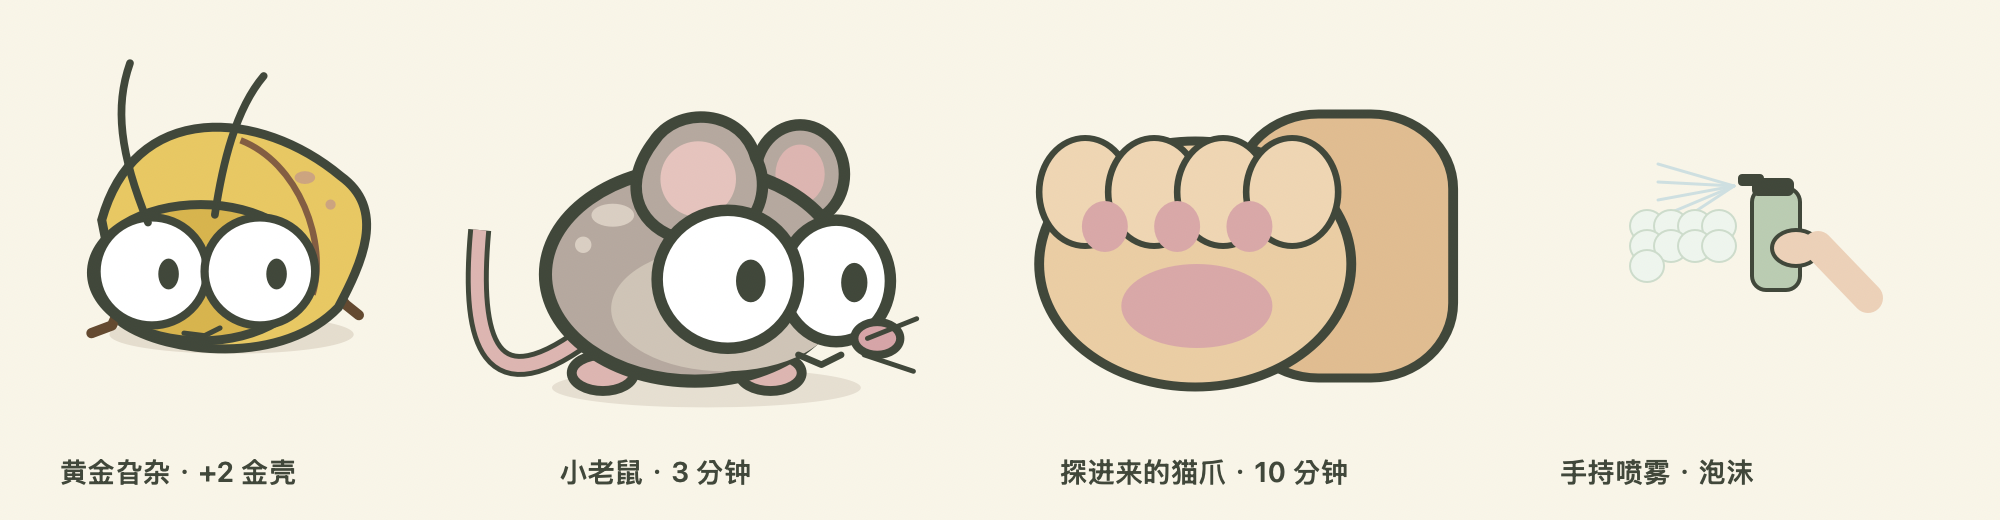
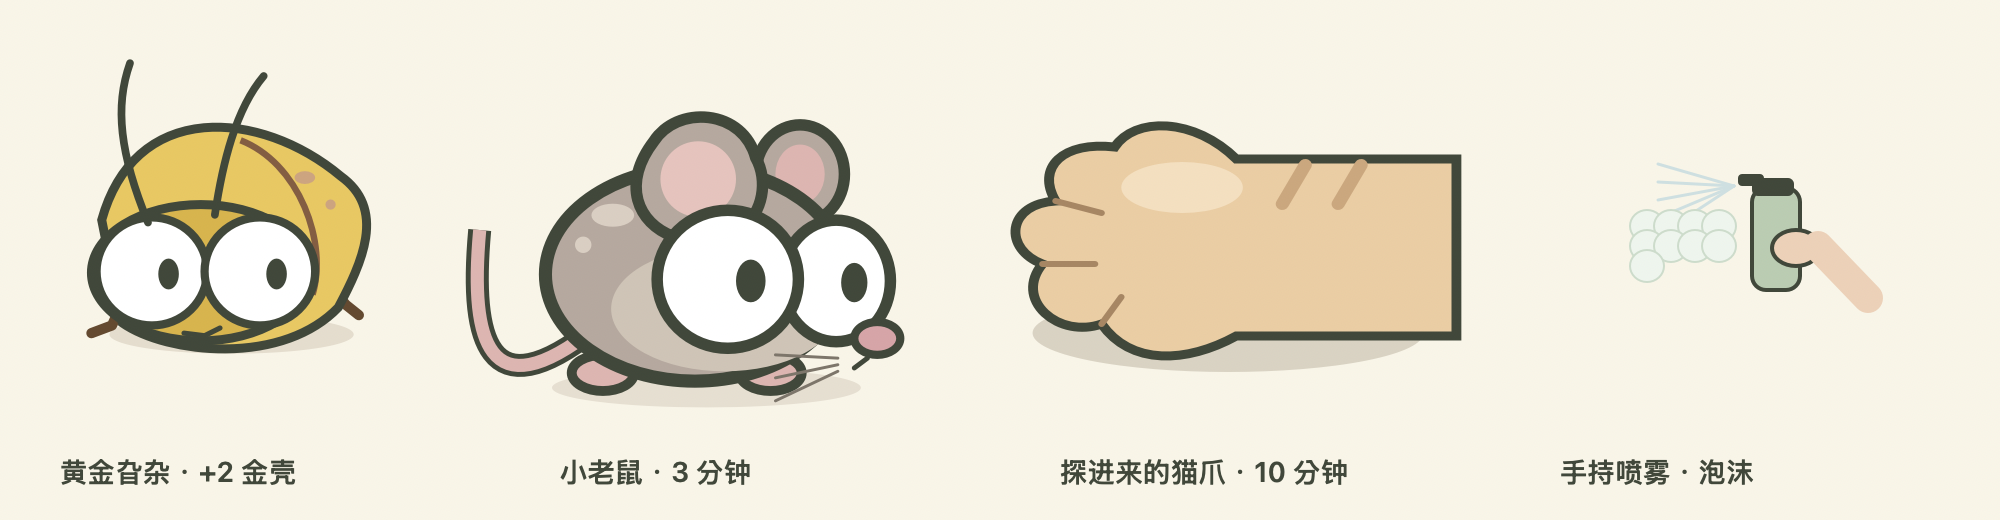
Refine mouse whiskers and animate a cat paw resting on the desktop

Changed region(s): [[0.496, 0.1846, 0.744, 0.7692], [0.372, 0.6769, 0.465, 0.7692], [0.434, 0.6154, 0.465, 0.6462]]

diff --git a/Sources/Art.swift b/Sources/Art.swift
@@ -112,11 +112,23 @@ func drawFriend(in box:NSRect,cat:Bool,phase:Double,facing:Double=1){
     let scale=AffineTransform(scaleByX:box.width/140,byY:box.height/140);(scale as NSAffineTransform).concat()
     if !cat && facing>0 {let flip=AffineTransform(translationByX:140,byY:0);(flip as NSAffineTransform).concat();let mirror=AffineTransform(scaleByX:-1,byY:1);(mirror as NSAffineTransform).concat()}
     if cat {
-        paintRect(NSRect(x:78,y:28,width:66,height:88),color(0xE0AD78),radius:25,stroke:ink,width:3)
-        oval(NSRect(x:18,y:37,width:95,height:82),color(0xEBC18D),stroke:ink,width:3)
-        for n in 0..<4 {oval(NSRect(x:18+CGFloat(n)*21,y:36,width:28,height:36),color(0xF0CB9F),stroke:ink,width:2)}
-        oval(NSRect(x:43,y:78,width:46,height:28),color(0xD99396))
-        for n in 0..<3 {oval(NSRect(x:31+CGFloat(n)*22,y:57,width:14,height:17),color(0xD99396))}
+        let contact=pawContact(phase)
+        let reach=AffineTransform(translationByX:(1-contact)*130,byY:-(1-contact)*9);(reach as NSAffineTransform).concat()
+        // Top of the paw resting on the desktop; the pads face the floor.
+        oval(NSRect(x:16,y:88,width:119,height:26),color(0x66533B,0.08+contact*0.16))
+        let paw=NSBezierPath();paw.move(to:NSPoint(x:145,y:43));paw.line(to:NSPoint(x:78,y:43))
+        paw.curve(to:NSPoint(x:41,y:39),controlPoint1:NSPoint(x:65,y:29),controlPoint2:NSPoint(x:47,y:29))
+        paw.curve(to:NSPoint(x:23,y:57),controlPoint1:NSPoint(x:25,y:37),controlPoint2:NSPoint(x:17,y:46))
+        paw.curve(to:NSPoint(x:19,y:78),controlPoint1:NSPoint(x:8,y:58),controlPoint2:NSPoint(x:7,y:73))
+        paw.curve(to:NSPoint(x:37,y:98),controlPoint1:NSPoint(x:10,y:90),controlPoint2:NSPoint(x:24,y:103))
+        paw.curve(to:NSPoint(x:78,y:102),controlPoint1:NSPoint(x:46,y:112),controlPoint2:NSPoint(x:63,y:111))
+        paw.line(to:NSPoint(x:145,y:102));paw.close()
+        color(0xEBC18D).setFill();paw.fill();ink.setStroke();paw.lineWidth=3;paw.stroke()
+        oval(NSRect(x:43,y:44,width:37,height:17),color(0xF5D7AE))
+        line([NSPoint(x:23,y:57),NSPoint(x:37,y:61)],color(0x9C724C),2)
+        line([NSPoint(x:19,y:78),NSPoint(x:35,y:78)],color(0x9C724C),2)
+        line([NSPoint(x:37,y:98),NSPoint(x:43,y:89)],color(0x9C724C),2)
+        for x in [99.0,116.0] {line([NSPoint(x:x,y:45),NSPoint(x:x-7,y:58)],color(0xC69565),4)}
     } else {
         let wig=sin(phase*12)*3
         let tail=NSBezierPath();tail.move(to:NSPoint(x:99,y:100));tail.curve(to:NSPoint(x:134,y:70+wig),controlPoint1:NSPoint(x:132,y:126),controlPoint2:NSPoint(x:137,y:103));ink.setStroke();tail.lineWidth=7;tail.stroke();color(0xDCA3A0).setStroke();tail.lineWidth=4;tail.stroke()
@@ -140,9 +152,11 @@ func drawFriend(in box:NSRect,cat:Bool,phase:Double,facing:Double=1){
         oval(NSRect(x:16,y:80,width:8,height:12),ink)
         oval(NSRect(x:47,y:79,width:9,height:13),ink)
         oval(NSRect(x:6,y:98,width:14,height:10),color(0xD68F96),stroke:ink,width:2.5)
-        line([NSPoint(x:24,y:108),NSPoint(x:30,y:111),NSPoint(x:37,y:108)],ink,2)
-        line([NSPoint(x:16,y:103),NSPoint(x:1,y:97)],ink,1.5)
-        line([NSPoint(x:17,y:108),NSPoint(x:2,y:113)],ink,1.5)
+        line([NSPoint(x:16,y:109),NSPoint(x:20,y:112)],ink,1.5)
+        // Fine whiskers fan from the cheek, clear of the pink nose.
+        for n in 0..<3 {
+            line([NSPoint(x:25,y:109+Double(n)*2),NSPoint(x:44,y:108+Double(n)*7)],color(0x6B6256),0.9)
+        }
     }
     NSGraphicsContext.restoreGraphicsState()
 }

diff --git a/Sources/App.swift b/Sources/App.swift
@@ -62,7 +62,7 @@ final class PetView: NSView {
             let clip=NSBezierPath(rect:bounds);clip.windingRule = .evenOdd
             clip.appendRect(NSRect(x:entry.frame.minX-r.x,y:bounds.height-entry.frame.maxY+r.y,width:entry.frame.width,height:entry.frame.height));clip.addClip()
         }
-        drawBug(in:NSRect(x:(bounds.width-size)/2,y:bounds.height-size,width:size,height:size),kind:r.kind,phase:now,flying:r.flyingUntil>now,facing:r.vx>=0 ? 1 : -1)
+        drawBug(in:NSRect(x:(bounds.width-size)/2,y:bounds.height-size,width:size,height:size),kind:r.kind,phase:r.kind == .catPaw ? now-r.born : now,flying:r.flyingUntil>now,facing:r.vx>=0 ? 1 : -1)
         if r.tauntUntil>now {
             paintRect(NSRect(x:3,y:7,width:140,height:27),cream,radius:12,stroke:ink)
             label(r.flyingUntil>now ? "打不到～我会飞！" : "你以为没有了？",13,11,size:11,weight:.semibold,width:128)
@@ -463,7 +463,7 @@ final class Paradise: NSObject, NSApplicationDelegate, NSWindowDelegate {
         beginVisit(r.id,now:now)
         let f=screen.frame
         if kind == .mouse {state.residents[state.residents.count-1].x=f.minX-petCanvas(kind).width;state.residents[state.residents.count-1].y=f.minY+120;visits[r.id]?.target=CGPoint(x:f.maxX,y:f.minY+120);visits[r.id]?.deadline=now+14}
-        else {state.residents[state.residents.count-1].x=f.maxX-90;state.residents[state.residents.count-1].y=f.minY+170;visits[r.id]?.target=CGPoint(x:f.maxX-150,y:f.minY+170);visits[r.id]?.deadline=now+5}
+        else {state.residents[state.residents.count-1].x=f.maxX-220;state.residents[state.residents.count-1].y=f.minY+170;state.residents[state.residents.count-1].born=now;visits[r.id]?.screen=f}
         if state.progression?.seen.contains(kind.rawValue) == false {state.progression?.seen.append(kind.rawValue);tell(kind == .mouse ? "新朋友解锁：路过的小老鼠" : "新朋友解锁：一只探进来的猫爪")}
         syncPanels();save()
     }
@@ -545,7 +545,7 @@ final class Paradise: NSObject, NSApplicationDelegate, NSWindowDelegate {
         paintRect(NSRect(x:0,y:0,width:1000,height:260),cream)
         drawBug(in:NSRect(x:20,y:20,width:180,height:180),kind:.gold)
         drawFriend(in:NSRect(x:230,y:0,width:230,height:230),cat:false,phase:0)
-        drawFriend(in:NSRect(x:490,y:15,width:230,height:210),cat:true,phase:0)
+        drawFriend(in:NSRect(x:490,y:15,width:230,height:210),cat:true,phase:3)
         let shift=AffineTransform(translationByX:790,byY:40);(shift as NSAffineTransform).concat();drawSpray(in:NSRect(x:0,y:0,width:146,height:140));let undo=AffineTransform(translationByX:-790,byY:-40);(undo as NSAffineTransform).concat()
         for (i,text) in ["黄金旮杂 · +2 金壳","小老鼠 · 3 分钟","探进来的猫爪 · 10 分钟","手持喷雾 · 泡沫"].enumerated(){label(text,CGFloat(i)*250+30,227,size:14,weight:.semibold)}
         friends.unlockFocus()

diff --git a/Sources/Roaming.swift b/Sources/Roaming.swift
@@ -31,6 +31,7 @@ struct Visit {
     }
     mutating func advance(_ r:inout Resident, now:Double,dt:Double,speed:Double) {
         guard !hidden else{return}
+        if r.kind == .catPaw {if now-r.born>=6 {hidden=true};return}
         if !exiting && now>=deadline {
             exiting=true
             target=Self.nearestExit(from:CGPoint(x:r.x,y:r.y),in:screen,kind:r.kind)
@@ -45,7 +46,7 @@ struct Visit {
     }
 }
 func desktopSize(_ kind:BugKind) -> CGFloat {
-    switch kind {case .mouse:return 170;case .catPaw:return 140;case .baby:return 45;case .egg:return 52;default:return 68}
+    switch kind {case .mouse:return 170;case .catPaw:return 240;case .baby:return 45;case .egg:return 52;default:return 68}
 }
 func runRoamingTests() {
     let f=CGRect(x:-1440,y:40,width:1440,height:860)
@@ -63,7 +64,20 @@ func runRoamingTests() {
     v.advance(&r,now:500,dt:100,speed:50)
     precondition(r.x==x && r.y==y)
     precondition(desktopSize(.adult)==68 && desktopSize(.baby)==45)
+    precondition(pawContact(0)==0 && pawContact(3)==1 && pawContact(6)==0)
+    var cat=Resident(kind:.catPaw,x:-220,y:200,born:0)
+    var catVisit=Visit(hidden:false,exiting:false,deadline:5,target:.zero,screen:f)
+    catVisit.advance(&cat,now:3,dt:3,speed:18)
+    precondition(cat.x == -220 && cat.y == 200 && !catVisit.hidden)
+    catVisit.advance(&cat,now:6,dt:3,speed:18);precondition(catVisit.hidden)
+    print("PASS: planted cat paw stays anchored and withdraws after six seconds")
     print("PASS: four offscreen entrances, negative display coordinates, walking, exit, hidden stability, smaller sizes")
 }
 
-func petCanvas(_ kind:BugKind) -> CGSize { kind == .mouse ? CGSize(width:182,height:182) : CGSize(width:146,height:140) }
+func petCanvas(_ kind:BugKind) -> CGSize { kind == .catPaw ? CGSize(width:252,height:252) : kind == .mouse ? CGSize(width:182,height:182) : CGSize(width:146,height:140) }
+
+// Ease into a planted pose, rest, then lift and withdraw over six seconds.
+func pawContact(_ elapsed:Double) -> Double {
+    let t=max(0,min(1,elapsed<1.2 ? elapsed/1.2 : elapsed>4.5 ? (6-elapsed)/1.5 : 1))
+    return t*t*(3-2*t)
+}

diff --git a/Windows/Game.cs b/Windows/Game.cs
@@ -9,8 +9,9 @@ public static class Rules {
     public static readonly int[] Cost=[0,2,4,6,5];
     public static readonly int[] Unlock=[0,5,12,20,28];
     public static readonly string[] Details=["噗叽！会留奶油污渍","啪！但它可能会飞","开文件夹时批量躺平","活的、死的、卵，都能吸","最后一步：把污渍擦掉"];
-    public static int Canvas(Kind k)=>k==Kind.Mouse?182:110;
-    public static float Size(Kind k)=>k==Kind.Mouse?170:k==Kind.CatPaw?110:k==Kind.Baby?45:k==Kind.Egg?52:68;
+    public static double PawContact(double elapsed){double t=Math.Clamp(elapsed<1.2?elapsed/1.2:elapsed>4.5?(6-elapsed)/1.5:1,0,1);return t*t*(3-2*t);}
+    public static int Canvas(Kind k)=>k==Kind.CatPaw?252:k==Kind.Mouse?182:110;
+    public static float Size(Kind k)=>k==Kind.Mouse?170:k==Kind.CatPaw?240:k==Kind.Baby?45:k==Kind.Egg?52:68;
 }
 public class Resident {
     public Guid Id {get;set;}=Guid.NewGuid();
@@ -88,6 +89,7 @@ public class Game {
         foreach(var r in State.Residents.Where(r=>r.Live)){
             if(r.Kind==Kind.Baby&&now-r.Born>120&&!State.Quiet)r.Kind=Kind.Adult;
             if(r.Hidden)continue;
+            if(r.Kind==Kind.CatPaw){if(now-r.Born>=6)r.Hidden=true;continue;}
             if(!r.Exiting&&now>=r.ExitAt){r.Exiting=true;var f=r.Screen;PointF[] exits=[new(f.Left-Rules.Canvas(r.Kind),r.Y),new(f.Right,r.Y),new(r.X,f.Top-Rules.Canvas(r.Kind)),new(r.X,f.Bottom)];var p=exits.MinBy(p=>MathF.Abs(p.X-r.X)+MathF.Abs(p.Y-r.Y));r.TargetX=p.X;r.TargetY=p.Y;}
             float dx=r.TargetX-r.X,dy=r.TargetY-r.Y,d=MathF.Sqrt(dx*dx+dy*dy);r.Direction=dx>=0?1:-1;
             float step=(float)(dt*(r.Kind==Kind.Mouse?145:r.Kind==Kind.CatPaw?18:r.FlyingUntil>now?190:58)*(State.Quiet ? 0.4 : 1));
@@ -110,7 +112,7 @@ public class Game {
     }
     void SpawnFriend(Kind kind,double now){var r=Spawn(kind,now);if(r==null)return;BeginVisit(r,now);var f=r.Screen;
         if(kind==Kind.Mouse){r.X=f.Left-Rules.Canvas(r.Kind);r.Y=f.Bottom-200;r.TargetX=f.Right;r.TargetY=r.Y;r.ExitAt=now+14;}
-        else{r.X=f.Right-40;r.Y=f.Top+200;r.TargetX=f.Right-100;r.TargetY=r.Y;r.ExitAt=now+5;}
+        else{r.X=f.Right-220;r.Y=f.Top+200;r.Born=now;}
         if(!State.Progression.Seen.Contains(kind.ToString())){State.Progression.Seen.Add(kind.ToString());Message=kind==Kind.Mouse?"新朋友解锁：路过的小老鼠":"新朋友解锁：一只探进来的猫爪";}
     }
     public void TogglePause(double now){Paused=!Paused;if(Paused)pauseStart=now;else{var d=now-pauseStart;foreach(var r in State.Residents){r.Born+=d;r.ExitAt+=d;r.FlyingUntil+=d;r.TauntUntil+=d;}NextAppearance+=d;nextGold+=d;nextMouse+=d;nextCat+=d;lastEgg+=d;if(emptySince>0)emptySince+=d;}Message=Paused?"全体暂停，可以安心办公":"住客们回来啦";}

diff --git a/Windows/Art.cs b/Windows/Art.cs
@@ -29,7 +29,15 @@ static class Art {
     public static void Friend(Graphics g,RectangleF box,bool cat,double phase,float facing=1){
         var save=g.Save();g.TranslateTransform(box.X,box.Y);g.ScaleTransform(box.Width/140,box.Height/140);g.SmoothingMode=SmoothingMode.AntiAlias;
         if(!cat&&facing>0){g.TranslateTransform(140,0);g.ScaleTransform(-1,1);}
-        if(cat){Round(g,new(78,28,70,88),Color.FromArgb(224,173,120),25);Oval(g,Color.FromArgb(235,193,141),18,37,95,82,Ink,3);for(int n=0;n<4;n++)Oval(g,Color.FromArgb(240,203,159),18+n*21,36,28,36,Ink,2);Oval(g,Color.FromArgb(217,147,150),43,78,46,28);for(int n=0;n<3;n++)Oval(g,Color.FromArgb(217,147,150),31+n*22,57,14,17);}
+        if(cat){
+            float contact=(float)Rules.PawContact(phase);g.TranslateTransform((1-contact)*130,-(1-contact)*9);
+            Oval(g,Color.FromArgb((int)(20+contact*41),102,83,59),16,88,119,26);
+            using var paw=new GraphicsPath();paw.AddLine(145,43,78,43);paw.AddBezier(78,43,65,29,47,29,41,39);paw.AddBezier(41,39,25,37,17,46,23,57);paw.AddBezier(23,57,8,58,7,73,19,78);paw.AddBezier(19,78,10,90,24,103,37,98);paw.AddBezier(37,98,46,112,63,111,78,102);paw.AddLine(78,102,145,102);paw.CloseFigure();
+            using var furBrush=new SolidBrush(Color.FromArgb(235,193,141));using var pawPen=new Pen(Ink,3);g.FillPath(furBrush,paw);g.DrawPath(pawPen,paw);
+            Oval(g,Color.FromArgb(245,215,174),43,44,37,17);
+            var crease=Color.FromArgb(156,114,76);Line(g,crease,2,new(23,57),new(37,61));Line(g,crease,2,new(19,78),new(35,78));Line(g,crease,2,new(37,98),new(43,89));
+            foreach(float x in new[]{99f,116f})Line(g,Color.FromArgb(198,149,101),4,new(x,45),new(x-7,58));
+        }
         else{
             float wig=(float)Math.Sin(phase*12)*3;
             using var tail=new GraphicsPath();tail.AddBezier(99,100,132,126,137,103,134,70+wig);using var outline=new Pen(Ink,7);using var pink=new Pen(Color.FromArgb(220,163,160),4);g.DrawPath(outline,tail);g.DrawPath(pink,tail);
@@ -46,7 +54,7 @@ static class Art {
             Oval(g,Color.White,9,67,33,37,Ink,3.5f);Oval(g,Color.White,37,64,43,42,Ink,3.5f);
             Oval(g,Ink,16,80,8,12);Oval(g,Ink,47,79,9,13);
             Oval(g,Color.FromArgb(214,143,150),6,98,14,10,Ink,2.5f);
-            Line(g,Ink,2,new(24,108),new(30,111),new(37,108));Line(g,Ink,1.5f,new(16,103),new(1,97));Line(g,Ink,1.5f,new(17,108),new(2,113));
+            Line(g,Ink,1.5f,new(16,109),new(20,112));for(int n=0;n<3;n++)Line(g,Color.FromArgb(107,98,86),.9f,new(25,109+n*2),new(44,108+n*7));
         }
         g.Restore(save);
     }

diff --git a/Tests/CoreTests/Program.cs b/Tests/CoreTests/Program.cs
@@ -27,3 +27,6 @@ var slow=new Game(100){EnableEncounters=false};slow.State.Habitat.Rate=.25;slow.
 var economy=new Game(100){EnableEncounters=false};economy.State.Xp=100;Check(!economy.Owns(Tool.Poison),"XP no longer buys tools");economy.State.Progression.Shells=4;economy.Select(Tool.Poison);Check(economy.Owns(Tool.Poison)&&economy.State.Progression.Shells==0,"shell purchase");economy.Select(Tool.Poison);Check(economy.State.Progression.Shells==0,"no repeat purchase");var gold=economy.Spawn(Kind.Gold,100)!;economy.Select(Tool.Pinch);economy.Use(gold.Id,101,1);economy.Use(gold.Id,102,1);Check(economy.State.Progression.Shells==2,"gold gives exactly one reward");var friend=economy.Spawn(Kind.Mouse,100)!;economy.Use(friend.Id,102,1);Check(friend.Kind==Kind.Mouse,"friends cannot be killed with tools");
 var guests=new Game(100);guests.Tick(101,179);Check(!guests.State.Residents.Any(r=>r.Friend),"friends stay locked before time threshold");guests.Tick(102,1);Check(guests.State.Residents.Any(r=>r.Kind==Kind.Mouse),"mouse unlocks at 3 minutes");guests.Tick(103,420);Check(guests.State.Progression.Seen.Contains("CatPaw"),"cat paw unlocks at 10 minutes");for(int i=0;i<50;i++)guests.Tick(104+i*10,.1);Check(guests.State.Residents.Count(r=>r.Kind==Kind.Mouse)<=2&&guests.State.Residents.Count(r=>r.Kind==Kind.CatPaw)<=1,"rare friend population caps");
 var legacy=System.Text.Json.Nodes.JsonNode.Parse(economy.Serialize())!;legacy.AsObject().Remove("Progression");var migrated=new Game(100);migrated.Restore(legacy.ToJsonString());Check(migrated.Owns(Tool.Cleaner),"legacy XP tools survive migration");
+
+Check(Rules.PawContact(0)==0&&Rules.PawContact(3)==1&&Rules.PawContact(6)==0,"paw reach, planted hold, withdrawal");
+var pawGame=new Game(100){EnableEncounters=false};var paw=pawGame.Spawn(Kind.CatPaw,100)!;paw.Hidden=false;paw.X=400;paw.Y=200;pawGame.Tick(103,3);Check(paw.X==400&&paw.Y==200&&!paw.Hidden,"paw remains anchored on desktop");pawGame.Tick(106,3);Check(!pawGame.State.Residents.Contains(paw),"paw withdraws after six seconds");

diff --git a/Windows/Desktop.cs b/Windows/Desktop.cs
@@ -14,7 +14,7 @@ sealed class PetWindow:Form {
         using var bmp=new Bitmap(ClientSize.Width,ClientSize.Height,PixelFormat.Format32bppPArgb);using(var g=Graphics.FromImage(bmp)){
             if(Resident.EntryFrame is Rectangle frame&&now<Resident.EntryUntil)g.SetClip(new RectangleF(frame.X-Resident.X,frame.Y-Resident.Y,frame.Width,frame.Height),System.Drawing.Drawing2D.CombineMode.Exclude);
             if(EffectTool.HasValue)Art.Effect(g,EffectTool.Value,now-EffectBorn);
-            else {float size=Rules.Size(Resident.Kind);Art.Bug(g,new((ClientSize.Width-size)/2,ClientSize.Height-size,size,size),Resident.Kind,now,Resident.FlyingUntil>now,Resident.Direction);
+            else {float size=Rules.Size(Resident.Kind);Art.Bug(g,new((ClientSize.Width-size)/2,ClientSize.Height-size,size,size),Resident.Kind,Resident.Kind==Kind.CatPaw?now-Resident.Born:now,Resident.FlyingUntil>now,Resident.Direction);
             if(Resident.TauntUntil>now){Art.Round(g,new(0,1,110,24),Art.Cream,9);Art.Text(g,Resident.FlyingUntil>now?"打不到～我会飞！":"你以为没有了？",7,4,11,Art.Ink,true,103);}
         }
         }

diff --git a/Tests/VALIDATION.md b/Tests/VALIDATION.md
@@ -39,3 +39,7 @@
 ## 1.4.1 圆耳鼠形象
 
 两端老鼠采用暖灰色圆身、粉耳、大白眼与粗轮廓；桌面画布尺寸 170，透明窗口扩至 182，出入屏幕位置随窗口尺寸计算。Mac 原生集成测试确认实际内容视图容纳放大角色，现有玩法测试通过；已用程序自身绘图导出并检查角色预览。Mac 通用包及 Windows x64 包构建成功，Windows 模型测试通过，Windows 原生显示仍待真机验证。
+
+## 1.4.3 胡须与落地猫爪
+
+老鼠胡须改为脸颊下方三条细线，避开鼻子与眼睛。猫爪改为爪背朝上、连着屏幕外前腿的形象，尺寸 240，使用六秒伸入／落地停留／抬起收回动画。Mac 与 Windows 模型测试验证接触曲线、停留位置固定以及结束后移除；Mac 原生集成测试通过。程序自身渲染预览已检查，两端发行包构建通过；Windows 原生动画尚待真机确认。
